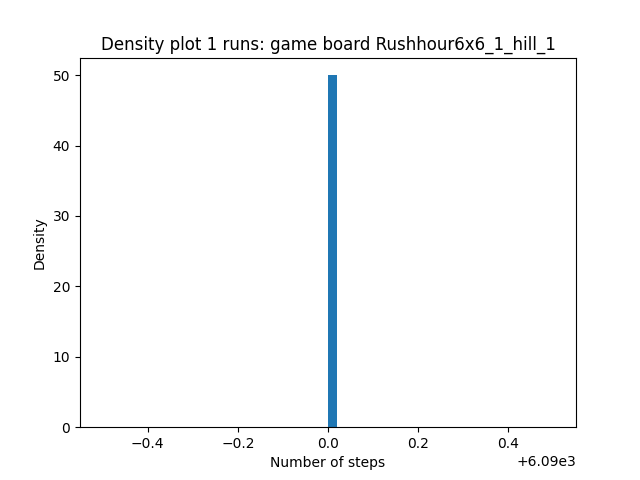
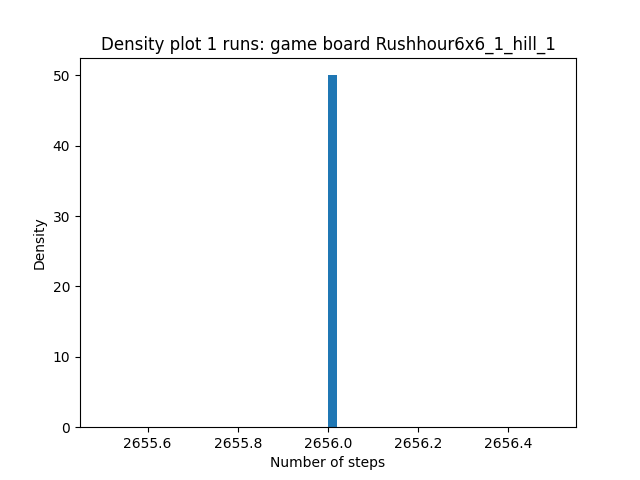
te

diff --git a/code/algorithms/base_algorithm.py b/code/algorithms/base_algorithm.py
@@ -59,11 +59,8 @@ class BaseAlg:
 
         # moving backwards from the winning node, construct the entire node list
         current: Node = final_node
-        print('current', current)
-        print('startnode', self.start_node)
-        while current is not self.start_node:
-            print('ja')
 
+        while current is not self.start_node:
             # save the data
             self.node_list.append(current)
             self.moves_made.append(current.step_taken)
@@ -78,8 +75,6 @@ class BaseAlg:
         # invert all lists, since they are built from children to parents
         self.node_list = self.node_list[::-1]
         self.moves_made = self.moves_made[::-1]
-
-        print('t', self.node_list)
 
     def reset_algorithm(self):
         self.node_list: List[Node] = [Node(str(self.board))]

diff --git a/code/algorithms/hill_climber_new.py b/code/algorithms/hill_climber_new.py
@@ -76,9 +76,8 @@ class HillClimberNew:
             # do algoritme on small part to get it better
             alg = self.make_algorithm(self.improve_mode, self.node_list[start], self.node_list[start + interval])
             alg.run_algorithm()
-            print(interval)
-            print('g', len(alg.node_list))
-            print(alg.node_list)
+            # print(interval)
+            # print('g', len(alg.node_list))
 
             if interval <= len(alg.node_list):
                 continue
@@ -93,4 +92,4 @@ class HillClimberNew:
         
         self.create_moves_made(self.node_list[0], self.node_list[-1])
 
-        print(self.moves_amount, " ")
+        print(self.moves_amount, "  ")

diff --git a/code/algorithms/tree_search.py b/code/algorithms/tree_search.py
@@ -86,8 +86,8 @@ class Treesearcher(BaseAlg):
 
         # run the tree searcher over all states in stack or queue
         current_state: Node = self.start_node
-        while self.states and current_state.depth < self.depth:
 
+        while self.states: # and current_state.depth < self.depth:
             # get the state to work with
             current_state = self.get_current_state()
             

diff --git a/main.py b/main.py
@@ -27,7 +27,7 @@ def main(infile: str, outfolder: str, mode: str, runs: int, output_moves: bool):
     elif mode == "bestdepth":
         algorithm = Bdfs(board, 300)
     elif mode == "hill":
-        algorithm = HillClimberNew(board, 10, 'random', 'depth')
+        algorithm = HillClimberNew(board, 100, 'random', 'breadth')
     else:
         print("TODO")
     
